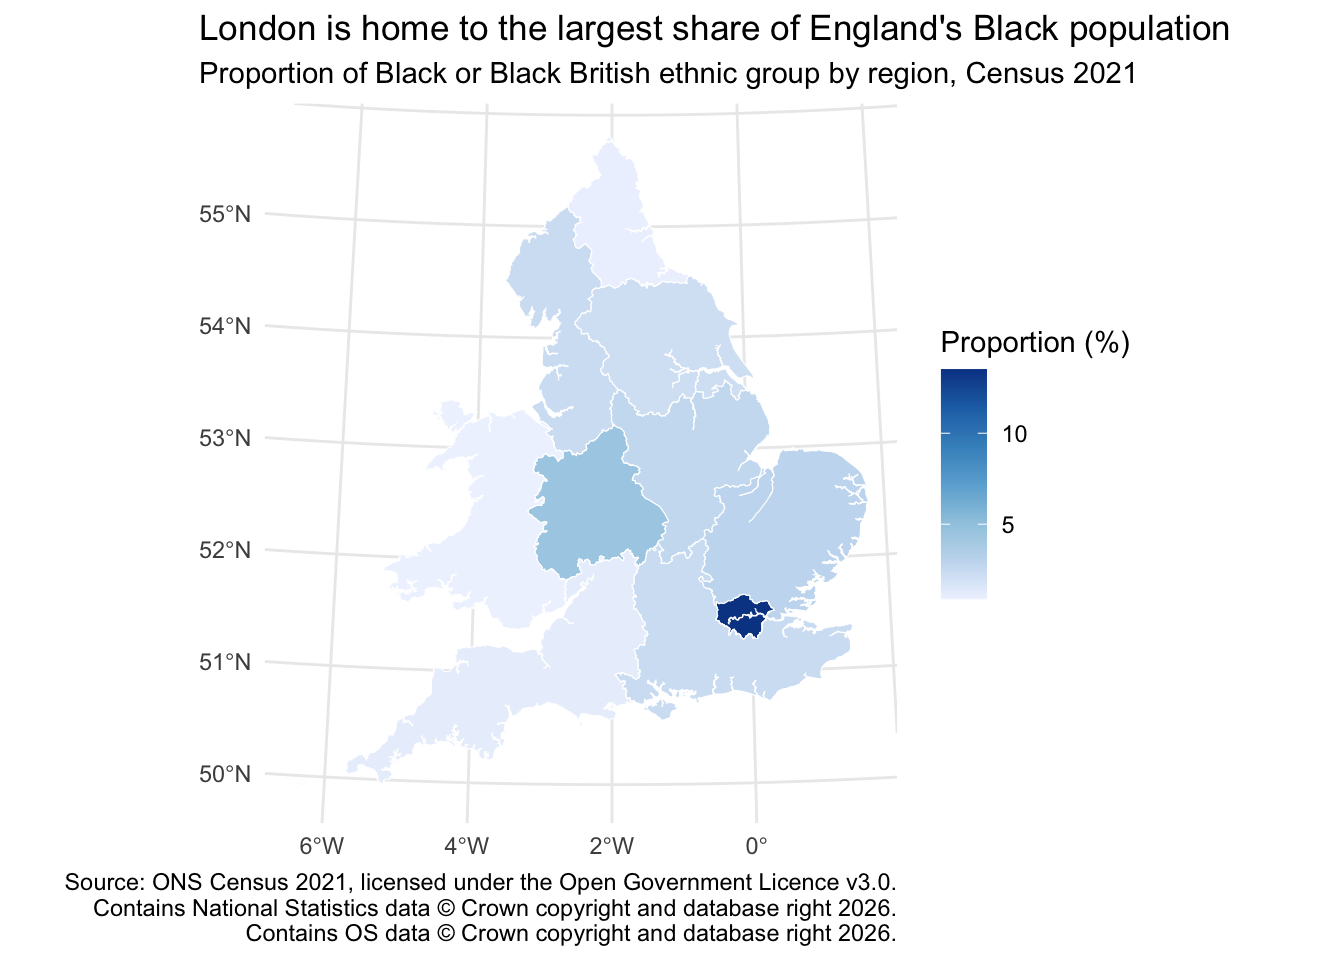
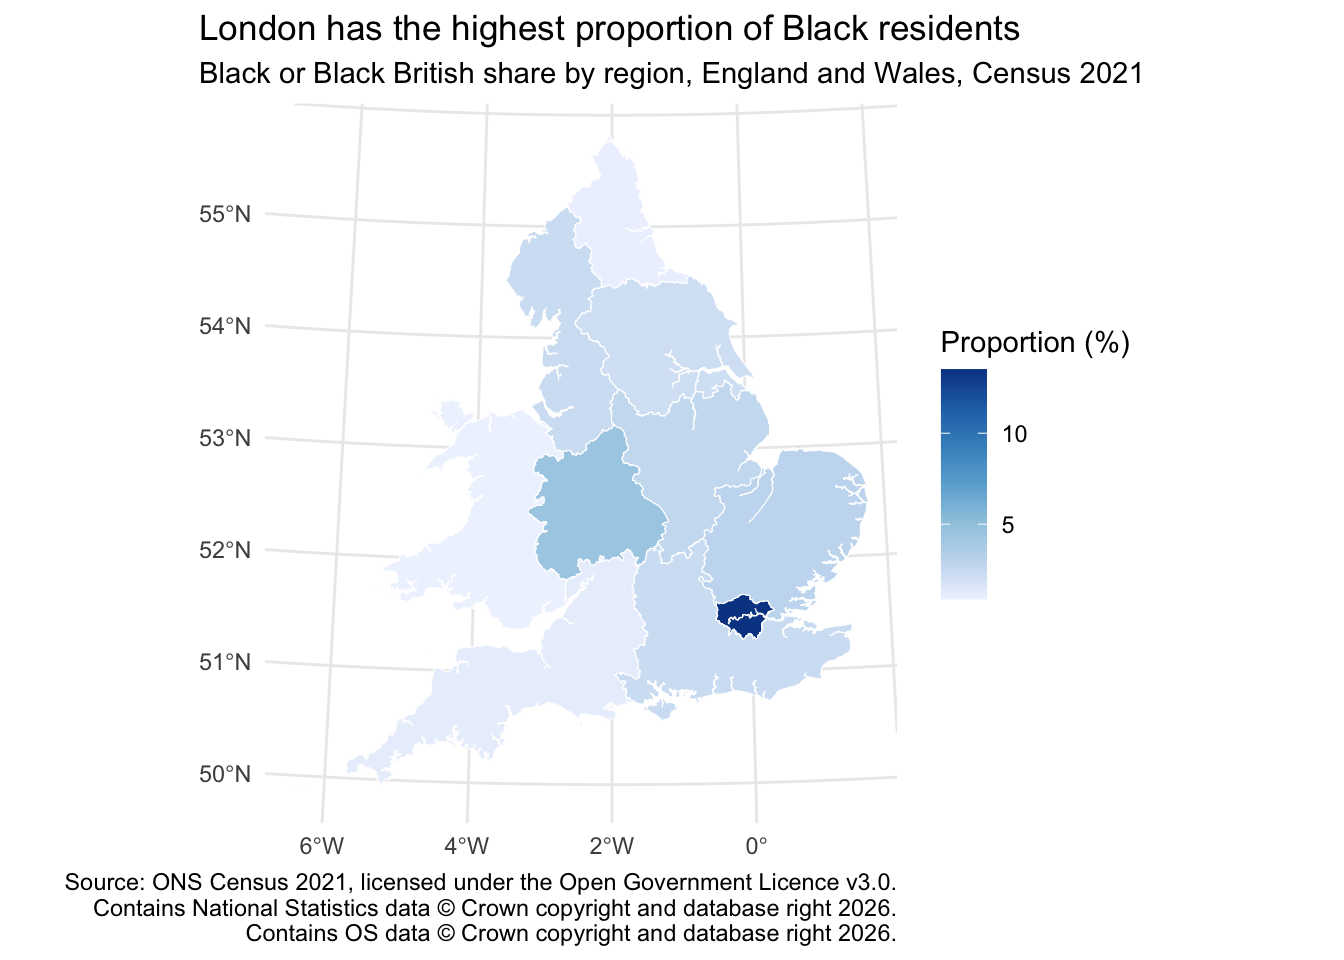
Retitle the regional map to match what it shows
The map shows the proportion of each region's residents who are Black,
across England and Wales. Also say "England and Wales" in Appendix B.

Changed region(s): [[0.1562, 0.0, 0.9062, 0.0938]]

diff --git a/report/_book/appendix_sensitivity.html b/report/_book/appendix_sensitivity.html
@@ -279,7 +279,7 @@ Figure&nbsp;B.1: Ethnicity IRRs (relative to White) under six model specificatio
 </div>
 </div>
 <p><a href="#fig-loocv" class="quarto-xref">Figure&nbsp;<span>B.1</span></a> shows that the Black/White IRR is 3.022 (95% CI: 2.855, 3.199) in the full model and remains at that level when financial year, sex, age group, or reason for search is dropped: the largest change is 0.004. This is expected: because the population offset is by region and ethnic group, these covariates mainly describe how each group’s searches are distributed across years, sexes, age groups and reasons, and change the ethnicity estimate very little. Whether the disparity depends on the sex and age structure of each population is examined with finer denominators in <a href="#sec-sens-denominators" class="quarto-xref"><span>Section B.4</span></a>.</p>
-<p>The exception is region: removing the regional fixed effect inflates the Black/White IRR to 4.351 (95% CI: 3.972, 4.766). This is expected. London combines the largest Black population in England with the highest per-capita stop and search volume. Without controlling for region, this concentration is partially absorbed into the ethnicity coefficient, producing upward bias. Crucially, even the uncontrolled estimate of 4.351 confirms a large disparity, so the Black/White finding is not an artefact of the regional distribution of the population.</p>
+<p>The exception is region: removing the regional fixed effect inflates the Black/White IRR to 4.351 (95% CI: 3.972, 4.766). This is expected. London combines the largest Black population in England and Wales with the highest per-capita stop and search volume. Without controlling for region, this concentration is partially absorbed into the ethnicity coefficient, producing upward bias. Crucially, even the uncontrolled estimate of 4.351 confirms a large disparity, so the Black/White finding is not an artefact of the regional distribution of the population.</p>
 <div class="cell">
 <div id="tbl-loocv-black" class="cell quarto-float quarto-figure quarto-figure-center anchored">
 <figure class="quarto-float quarto-float-tbl figure">
